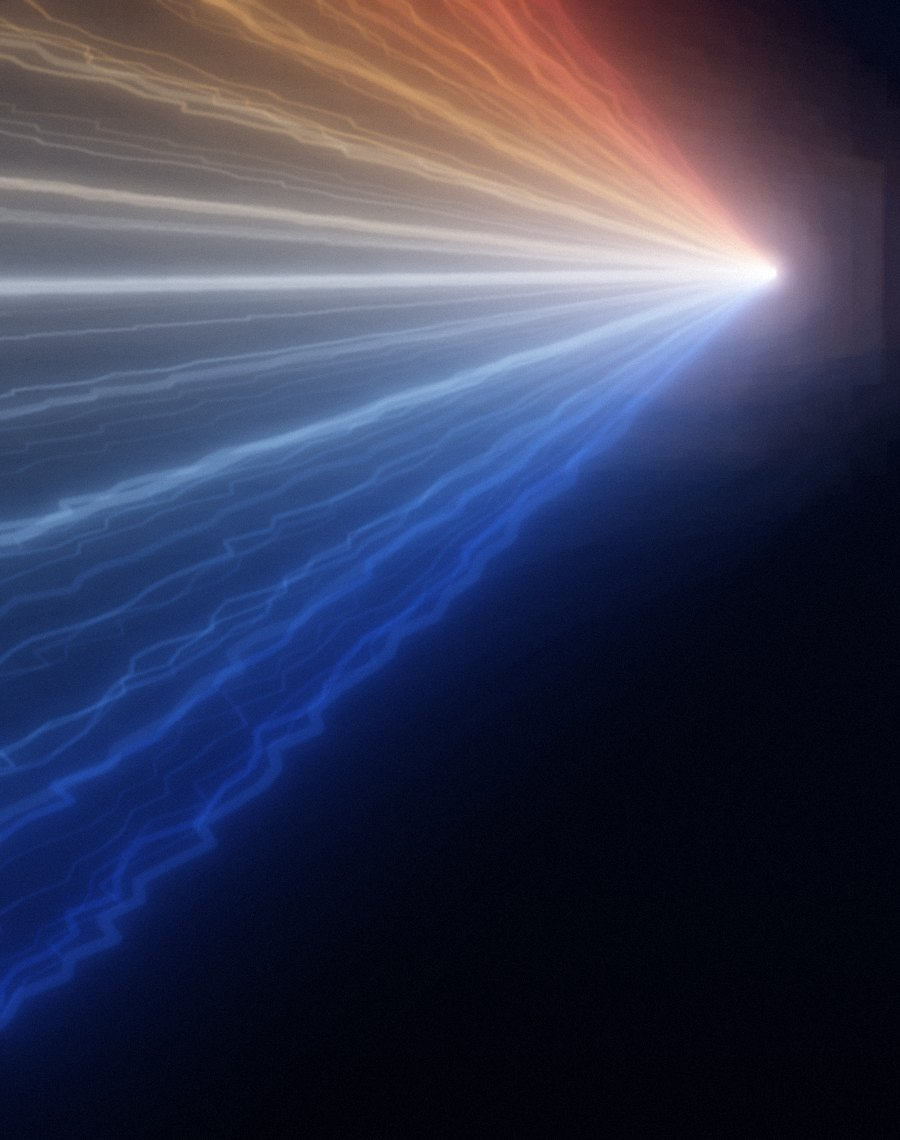
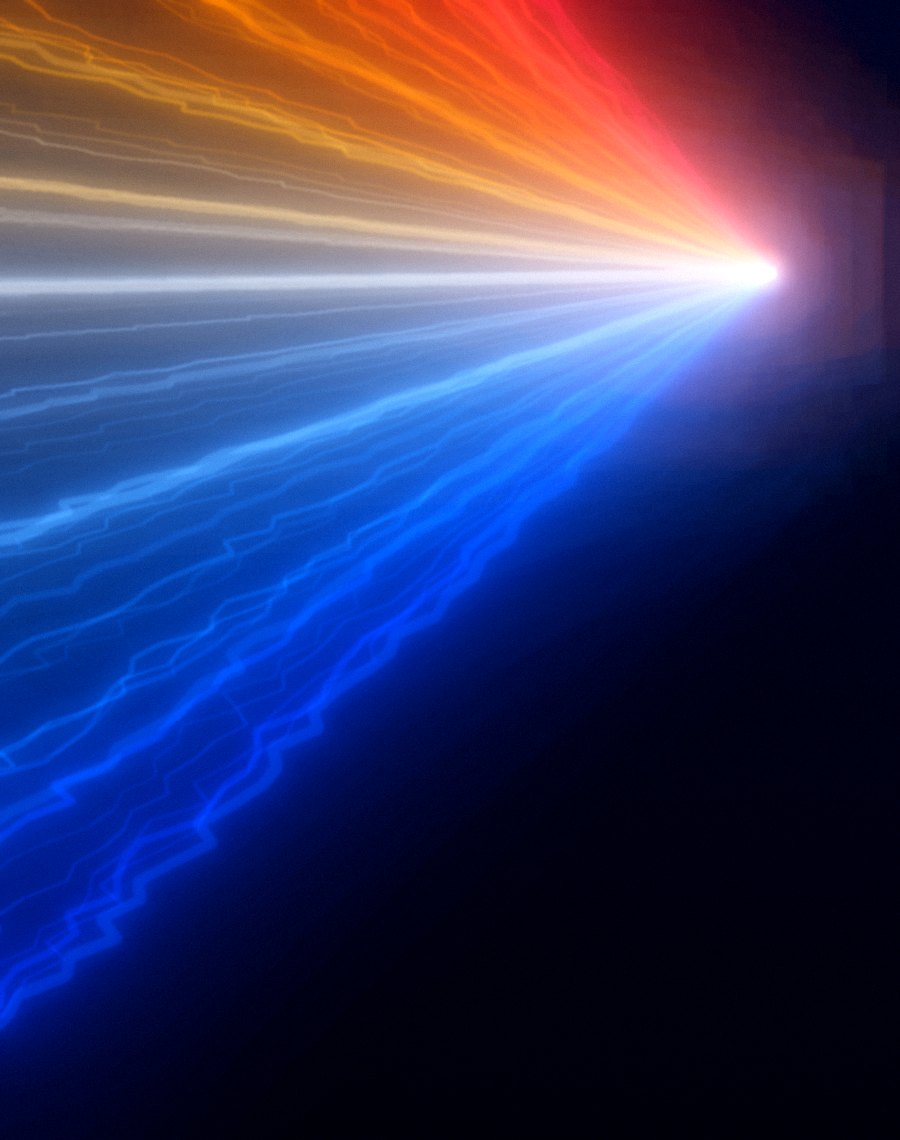
Onboarding: light follows the pointer across headlines, calmer stream entry, more vibrant light cards
Claude-Session: https://claude.ai/code/session_017WgTLw5yKfB3yWPWN55BXz

diff --git a/index.html b/index.html
@@ -4287,9 +4287,12 @@
   .ob-cxb:not(.on){background:rgba(var(--ink),.1);color:var(--fg)}
   .ob-cxb:not(.on):not(:disabled):hover{background:rgba(var(--ink),.16)}
   .ob-lt{font-size:14px;color:var(--fg-2);white-space:nowrap;overflow:hidden;text-overflow:ellipsis}
-  .ob-live li:first-child .ob-lt{background:linear-gradient(100deg,var(--fg-2) 0%,var(--fg-2) 38%,var(--fg) 50%,var(--fg-2) 62%,var(--fg-2) 100%) 0 0/260% 100%;-webkit-background-clip:text;background-clip:text;color:transparent;animation:livesheen 2.4s linear infinite}
+  /* the newest row is lit; older rows dim gently, nothing switches off abruptly */
+  .ob-live .ob-lt{color:var(--fg-2);transition:color .9s ease}
+  .ob-live li:first-child .ob-lt{color:var(--fg)}
+  .ob-live .ablob{transition:filter .9s ease,opacity .9s ease}
   .ob-live li:not(:first-child) .ablob{filter:grayscale(1);opacity:.5}
-  .ob-live li:not(:first-child) .ablob *{animation:none!important}
+  .ob-live li:not(:first-child) .ablob *{animation-play-state:paused!important}
   @media (max-width:600px){ .ob-h{font-size:40px} .ob-card h2{font-size:28px} .ob-cnts{grid-template-columns:repeat(2,1fr)} }
 
   /* ---------- onboarding v2.2 ---------- */
@@ -4366,11 +4369,14 @@
   /* ---------- onboarding v2.3: light, not italics ---------- */
   :root{--ob-light:linear-gradient(90deg,#2f6bff 0%,#8fb8ff 28%,#fff0d2 50%,#ffb347 70%,#ff5a1f 100%)}
   :root[data-theme="light"]{--ob-light:linear-gradient(90deg,#1d4ed8 0%,#4f7cff 30%,#c86bfa 52%,#ff8a2b 72%,#ff4d1f 100%)}
-  .ob-h em,.ob-h em:is(*){font-style:normal;font-variation-settings:"opsz" 144,"SOFT" 50;padding-right:.04em;
-    background-image:var(--ob-light),linear-gradient(var(--fg),var(--fg));background-repeat:no-repeat;background-size:0% 100%,100% 100%;background-position:0 0,0 0;
-    -webkit-background-clip:text;background-clip:text;color:transparent;-webkit-text-fill-color:transparent;transition:background-size .9s cubic-bezier(.22,1,.36,1)}
-  .ob-h:hover em{background-size:100% 100%,100% 100%}
-  @media (hover:none){ .ob-h em{background-size:100% 100%,100% 100%} }
+  /* the headline lights up where the pointer is: a pool of the light gradient follows the cursor across the whole line */
+  @property --obr{syntax:'<length>';inherits:true;initial-value:0px}
+  .ob-h{--mx:50%;--my:50%;--obr:0px;
+    background-image:radial-gradient(circle var(--obr) at var(--mx) var(--my),#fff3da 0%,#ffc36b 22%,#ff7a2e 42%,#a98bff 62%,#4f86ff 80%,rgba(47,107,255,0) 100%),linear-gradient(var(--fg),var(--fg));
+    -webkit-background-clip:text;background-clip:text;color:transparent;-webkit-text-fill-color:transparent;transition:--obr .6s cubic-bezier(.22,1,.36,1)}
+  :root[data-theme="light"] .ob-h{background-image:radial-gradient(circle var(--obr) at var(--mx) var(--my),#ff8a2b 0%,#ff4d1f 26%,#c86bfa 50%,#4f7cff 72%,#1d4ed8 88%,rgba(29,78,216,0) 100%),linear-gradient(var(--fg),var(--fg))}
+  .ob-h.is-lit{--obr:200px}
+  .ob-h em{font-style:normal;background:none;-webkit-text-fill-color:inherit}
   @keyframes obLight{from{background-position:0% 0}to{background-position:100% 0}}
   .ob-pane.is-tools{width:min(680px,100%)}
   .ob-p.is-2{max-width:460px}
@@ -8698,8 +8704,8 @@
     ['Agents are alive','Every agent face is a blob(): working ones bob, squash, look around and blink, each on its own clock; stopped ones are grey and still. Never a static avatar where the agent is doing something.'],
     ['Onboarding asks while it reads','Website first, then three quick questions while the agents read in the background. Then we say plainly it takes about an hour and let people leave. When it is ready: five findings, one card at a time, then the feed. Centred, one thing per screen.'],
     ['Status pills are Apple tints','A capsule with the colour as the label and the same colour at about 16% as the fill. No border, no outline, no glow. Green done or live, orange needs attention, red losing, blue information, grey neutral. Light mode uses Apple’s darker accessible variants for the label.'],
-    ['One display serif, for big moments only','Fraunces (Google Fonts, optical size 144, soft) carries onboarding headlines and finding cards. No italics: the one accent word is painted with the light gradient. Everything else stays in the system font.'],
-    ['Light is the accent','The streaks of blue, white and orange light from the onboarding imagery: on the finding cards, on the accent word of a headline (slowly drifting), and on the scribbled underline. Not in product UI.'],
+    ['One display serif, for big moments only','Fraunces (Google Fonts, optical size 144, soft) carries onboarding headlines and finding cards. No italics: the headline lights up under the pointer. Everything else stays in the system font.'],
+    ['Light is the accent','The streaks of blue, white and orange light from the onboarding imagery: on the finding cards, under the pointer on a headline (a pool of light follows the cursor), and on the scribbled underline. Not in product UI.'],
     ['Say it in two lines','Subtext under a headline is two lines at most. If it needs a third, cut words, not font size.'],
     ['Lighter is louder','Emphasis comes from brightness and weight, not colour. Green is reserved for done and live.']
   ];
@@ -9684,8 +9690,9 @@
         const li = list.firstElementChild;
         li.style.opacity = 0;
         // first the rows below make room, then the new one pops in
-        li.animate([{ height:'0px', marginBottom:'-8px' }, { height:'44px', marginBottom:'0px' }], { duration:700, easing:'cubic-bezier(.22,1,.36,1)' });
-        li.animate([{ opacity:0, transform:'translateY(-14px) scale(.96)', filter:'blur(4px)' }, { opacity:1, transform:'none', filter:'blur(0)' }], { duration:700, delay:60, easing:'cubic-bezier(.22,1,.36,1)', fill:'forwards' });
+        // the list opens a slot and the new row rises into it in the same movement: no drop from the top, no scale
+        li.animate([{ height:'0px', marginBottom:'-8px' }, { height:'44px', marginBottom:'0px' }], { duration:900, easing:'cubic-bezier(.33,0,.15,1)' });
+        li.animate([{ opacity:0, transform:'translateY(10px)' }, { opacity:1, transform:'none' }], { duration:900, delay:150, easing:'cubic-bezier(.33,0,.15,1)', fill:'forwards' });
         while (list.children.length > 6) list.lastElementChild.remove();
       };
       push(); setTimeout(push, 1300); setTimeout(push, 2600); liveT = setInterval(push, 4200);
@@ -9802,6 +9809,18 @@
       const steady = !decaying && prev.length >= 3 && a >= 20 && a >= avg * .7 && now - W.fired > 650;   // a wheel kept spinning: one card every 0.65s
       if (turn || ((fresh && now - W.fired > 220) || ((flick || steady) && now - W.fired > 300))) { W.fired = now; fGo(fAt + Math.sign(d)); }
     }, { passive:false });
+
+    let litH = null;
+    ob.addEventListener('pointermove', (e) => {
+      if (e.pointerType === 'touch') return;
+      const h = e.target.closest && e.target.closest('.ob-h');
+      if (litH && litH !== h) litH.classList.remove('is-lit');
+      litH = h; if (!h) return;
+      const r = h.getBoundingClientRect();
+      h.style.setProperty('--mx', (e.clientX - r.left) + 'px'); h.style.setProperty('--my', (e.clientY - r.top) + 'px');
+      h.classList.add('is-lit');
+    });
+    ob.addEventListener('pointerleave', () => { if (litH) litH.classList.remove('is-lit'); litH = null; });
 
     const SCREENS = [sUrl, sRole, sFirst, sTools, sWait];
     const go = (n, dir = 1) => { st.step = n; progress(n); readEl.hidden = true; clearInterval(liveT); swap(SCREENS[n](), dir, SCREENS[n] === sWait ? startLive : null); };

diff --git a/tools/light.py b/tools/light.py
@@ -2,7 +2,7 @@ import numpy as np
 from PIL import Image, ImageDraw, ImageFilter
 import math, random
 W,H=900,1140
-PAL=[(0.0,(20,60,255)),(0.25,(70,140,255)),(0.45,(190,215,255)),(0.55,(255,244,220)),(0.7,(255,170,70)),(0.85,(255,90,30)),(1.0,(200,30,40))]
+PAL=[(0.0,(10,50,255)),(0.22,(40,120,255)),(0.42,(120,170,255)),(0.52,(255,236,200)),(0.66,(255,150,20)),(0.82,(255,70,10)),(1.0,(230,20,60))]
 def pal(t):
     t=max(0,min(1,t))
     for (a,ca),(b,cb) in zip(PAL,PAL[1:]):
@@ -59,11 +59,15 @@ def streaks(seed, kind):
         inten=rnd.uniform(.25,.8)*({'horizon':.5,'wave':.75}.get(kind,1))
         m=(a*0.7+g1*1.2+g2*2.0+g3*5.0)*inten
         acc+=m[...,None]*np.array(col)[None,None,:]
-    out=img+acc*0.42
+    out=img+acc*0.5
     out=255*(1-np.exp(-out/255*1.15))   # soft tone map so whites bloom instead of clipping
     noise=np.random.default_rng(seed).normal(0,2.2,(H,W,1))
     out=np.clip(out+noise,0,255).astype(np.uint8)
-    return Image.fromarray(out)
+    from PIL import ImageEnhance
+    im=Image.fromarray(out)
+    im=ImageEnhance.Color(im).enhance(1.55)
+    im=ImageEnhance.Contrast(im).enhance(1.08)
+    return im
 kinds=['fan','horizon','burst','sweep','wave']
 for i,k in enumerate(kinds,1):
     streaks(7+i,k).save(f'light-{i}.jpg',quality=86,optimize=True); print(k)

diff --git a/DESIGN.md b/DESIGN.md
@@ -219,7 +219,7 @@ window.BRAND = {
 24. **Agents are alive.** Every agent face is `blob(key, live)`: the SVG is inlined so the body can bob and squash, the pupils look around and the eyes blink. Each agent runs on its own clock (`--abd`, `--abl`, `--abo` per `data-blob`), so a row never moves in step. Hover a live one and it hops. `live=false` is greyscale at 45%, still. The near-black orchestrator gets a #3a3a3a body in dark mode.
 25. **Onboarding asks while it reads.** Website → three questions (role, what comes first + what you're pushing, connect tools) while a pill at the top shows the reading → an honest wait screen (about an hour; you can leave; we'll email and ping) → "Your feed is ready" → five findings, one card at a time → the feed. Centred, one thing per screen, 520–600px column.
 26. **Status pills are Apple tints.** Capsule, 22px, 12px/600. Label = the colour, fill = the same colour at ~16%, **no border**. Tokens `--t-{green,orange,red,blue,gray}` and `--t-*-bg`, defined per theme (dark: #30D158 / #FF9F0A / #FF6961 / #409CFF; light uses Apple's accessible variants #248A3D / #C93400 / #D70015 / #0062CC). `--ok-*` follow the same rule and `--ok-line` is transparent, so no green outlines anywhere.
-27. **One display serif, for big moments only.** `--font-display` = Fraunces (Google Fonts; optical size 144, SOFT 50). Onboarding headlines (52px, -0.03em; 40px on phones) and the big number on finding cards. **No italics.** The one accent word per headline stays plain until the pointer is over the headline; then `--ob-light` (blue → white → orange; deeper blue → violet → orange in light mode) sweeps across it left to right in 0.9s. On touch screens it is always lit. Never in product UI, buttons or body text.
+27. **One display serif, for big moments only.** `--font-display` = Fraunces (Google Fonts; optical size 144, SOFT 50). Onboarding headlines (52px, -0.03em; 40px on phones) and the big number on finding cards. **No italics.** Headlines are plain. When the pointer is over one, a 200px pool of light (warm white → orange → violet → blue, a deeper set in light mode) follows the cursor across the whole line and fades out when it leaves (`@property --obr`). Touch screens stay plain. Never in product UI, buttons or body text.
 28. **Say it in two lines.** Subtext under a headline is two lines at most; cut words, never the font size. Most screens don't need subtext at all. Never in product UI, buttons or body text — the system font stays the voice of the product.
 29. **Light is the accent.** The five light-streak images in `assets/onboarding/` (generated as one family by `tools/light.py`: same palette, glow and grain, five compositions — fan, horizon, burst, sweep, curtains) are the finding-card backgrounds (with a dark scrim at the bottom for text). The same palette is `--ob-light` for accent words and `#ob-grad` for the scribbled underline. Onboarding and big moments only.
 
@@ -241,7 +241,7 @@ Open it at `index.html#onboarding`, or type `/onboarding` in Ask ShopOS. Code: t
 |---|---|
 | Website | Five live agent blobs, "Your brand, run by *agents*.", one line on what they do, "Add your link to get going", the URL field. |
 | Three questions | Who it's for (agent icons grey, coloured on hover, alive when picked) → what matters most (generic goals, pick two) → connect tools (optional, explains why). Only the step bars in the header; no kickers, no reading pill. |
-| Reading | "Your agents are reading Arata." + "This takes a little while. We'll notify you when it's done." (the promise gets a hand-drawn underline in the light gradient). Four odometer counters roll digit by digit like a lottery counter; leading zeros sit dim. A live stream: the rows below make room first, then the new row pops in, every 4.2s. |
+| Reading | "Your agents are reading Arata." + "This takes a little while. We'll notify you when it's done." (the promise gets a hand-drawn underline in the light gradient). Four odometer counters roll digit by digit like a lottery counter; leading zeros sit dim. A live stream: the list opens a slot and the new row rises 10px into it in the same 0.9s movement (no drop from the top, no scale); older rows dim and their agents pause rather than switch off. Every 4.2s. |
 | Your feed is ready | One screen: the ShopOS mark and "Your feed is ready." come in from a blur, then five cards fly in from below into a 3D stack. Each scroll or swipe moves exactly one card: a card moves at the start of a gesture or on a fresh flick inside a trackpad's inertia tail; the fading tail is ignored and no lock is ever extended, so the next flick always lands. Mouse wheel notches move one card each (min 380ms apart). Scrolling past the last card sends the stack away and "Let's get started." + "Open your feed" takes its place. No dots, no hints, no other buttons. |
 
 ## 11. Known fakes
